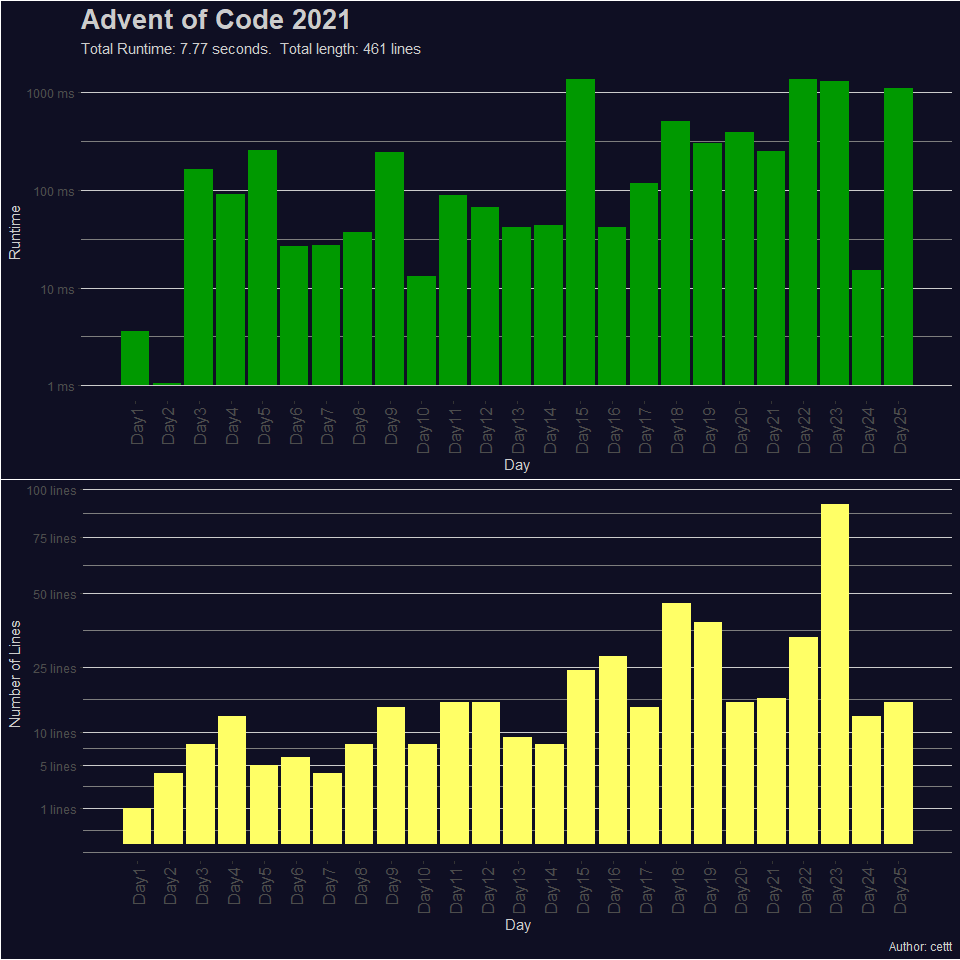
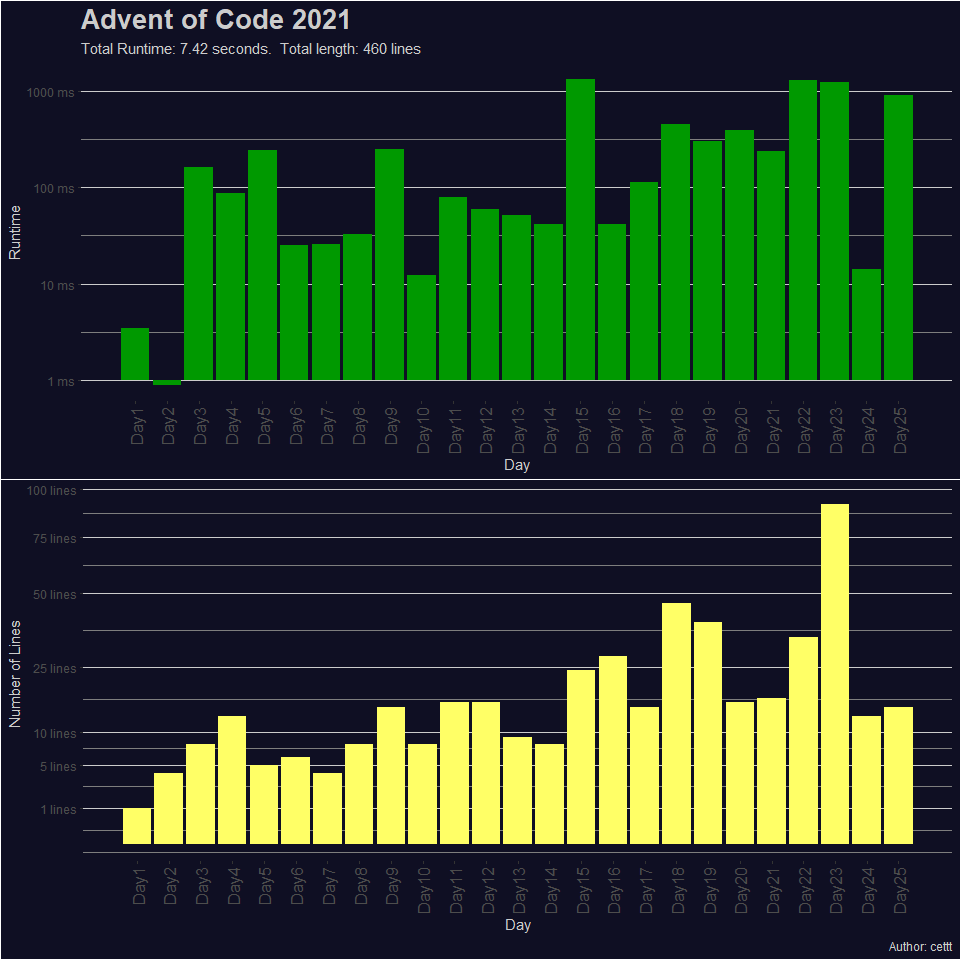
Improved Days 18 and 25. Updated ReadMe

diff --git a/README.md b/README.md
@@ -8,7 +8,7 @@ puzzles. The event is hosted by [Eric Wastl](http://was.tl/) and takes
 place between December 1st and December 25th.
 
 I solved all puzzles using R (version 4.1.0). Most of the solutions only
-require base packages only. For Days 15 and 23 I used the
+require base packages. For Days 15 and 23 I used the
 [collections](https://cran.r-project.org/web/packages/collections/index.html)
 library which provides high performance container types (in particular
 priority queues).
